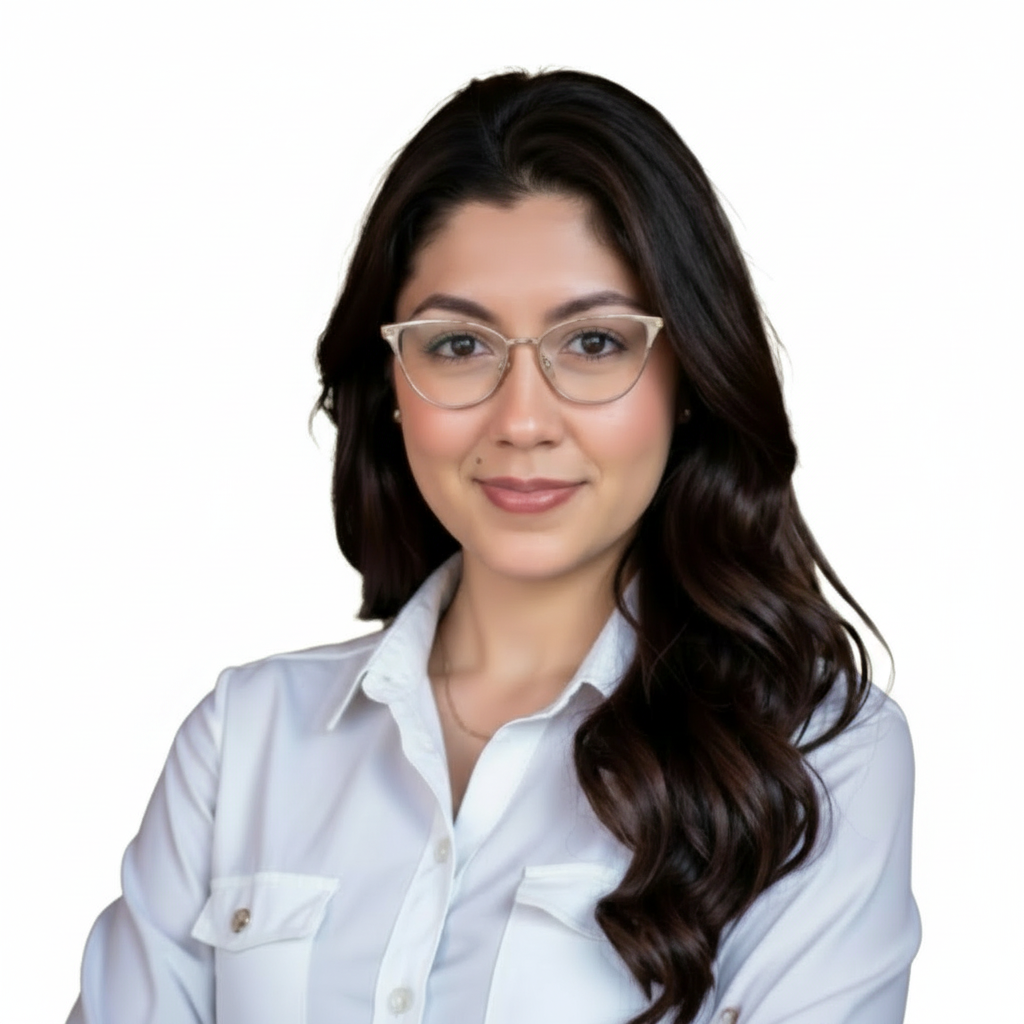
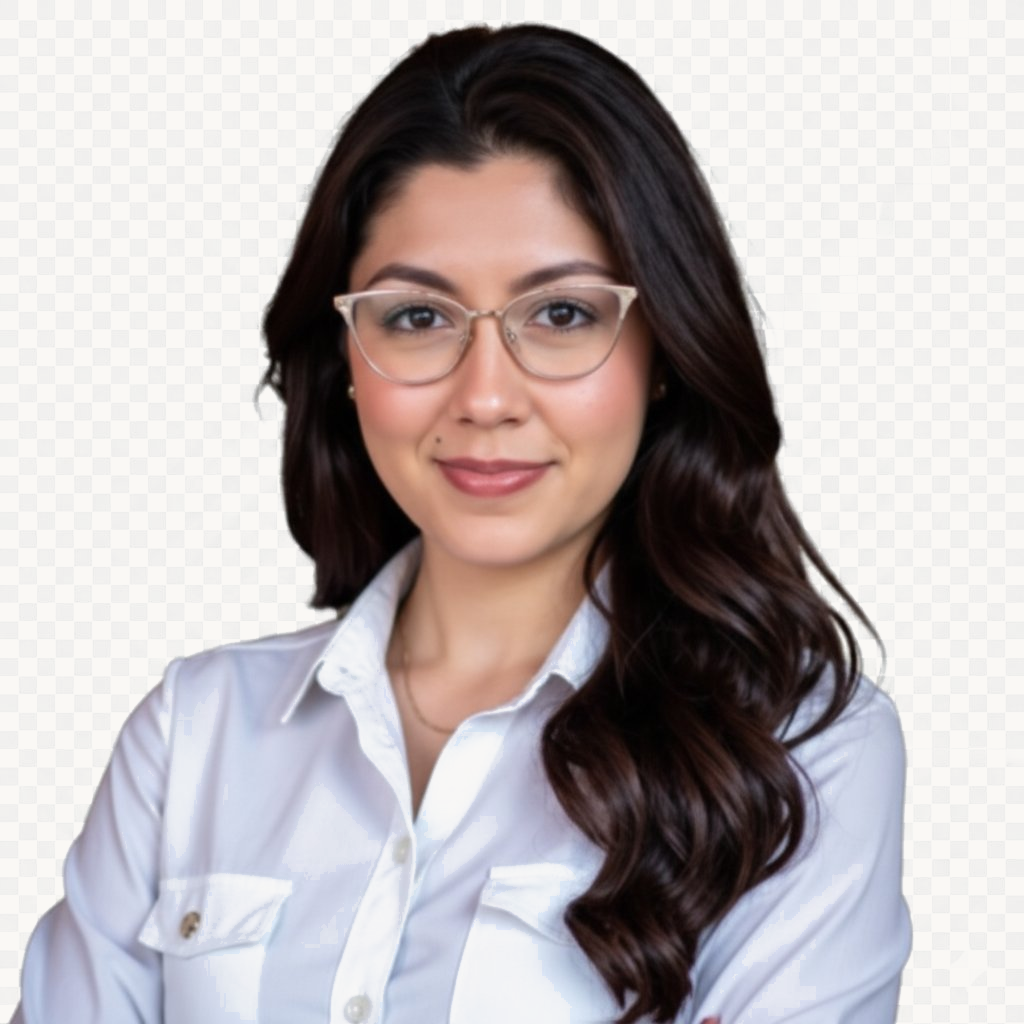
Changes

diff --git a/src/components/home/HeroSection.tsx b/src/components/home/HeroSection.tsx
@@ -1,7 +1,7 @@
 import { Link } from "react-router-dom";
 import { Button } from "@/components/ui/button";
 import { ArrowRight } from "lucide-react";
-import jillianHeadshot from "@/assets/jillian-headshot-seamless.png";
+import jillianHeadshot from "@/assets/jillian-headshot.png";
 
 export function HeroSection() {
   return (
